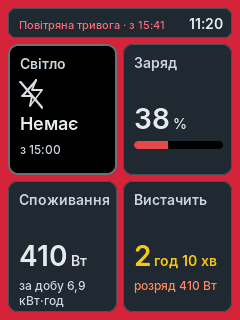
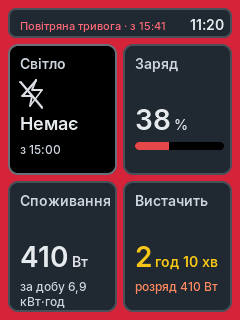
Обвідка плиток і рядка тривоги — 2 px

diff --git a/src/ui.cpp b/src/ui.cpp
@@ -134,7 +134,7 @@ void createTile(TileUi& u, int x, int y) {
 void applyTile(TileUi& u, const tiles::Tile& t) {
   lv_obj_set_style_bg_color(u.box, c(t.bg), 0);
   // Кожна плитка з обвідкою: на чорному тлі межі плиток видно й під кутом
-  lv_obj_set_style_border_width(u.box, t.border ? 2 : 1, 0);
+  lv_obj_set_style_border_width(u.box, 2, 0);  // однакова товщина — вміст плиток не зсувається
   lv_obj_set_style_border_color(u.box, c(t.border ? t.border : t.bg == col::CARD_LIGHT ? col::CARD_LIGHT : col::CARD_EDGE), 0);
   setText(u.title, t.title, t.titleColor);
   show(u.boltBg, t.icon == tiles::Icon::BoltOn);
@@ -171,7 +171,7 @@ void createMain() {
   lv_obj_remove_flag(S.scr, LV_OBJ_FLAG_SCROLLABLE);
   lv_obj_set_style_bg_color(S.scr, c(col::FRAME_CALM), 0);
   S.topBox = box(S.scr, M, M, 240 - 2 * M, TOP_H, col::CARD, 8);
-  lv_obj_set_style_border_width(S.topBox, 1, 0);
+  lv_obj_set_style_border_width(S.topBox, 2, 0);
   lv_obj_set_style_border_color(S.topBox, c(col::CARD_EDGE), 0);
   S.top = label(S.topBox, &inter_14_semi, col::MUTED);
   lv_obj_set_width(S.top, 240 - 2 * M - 26 - 44);
